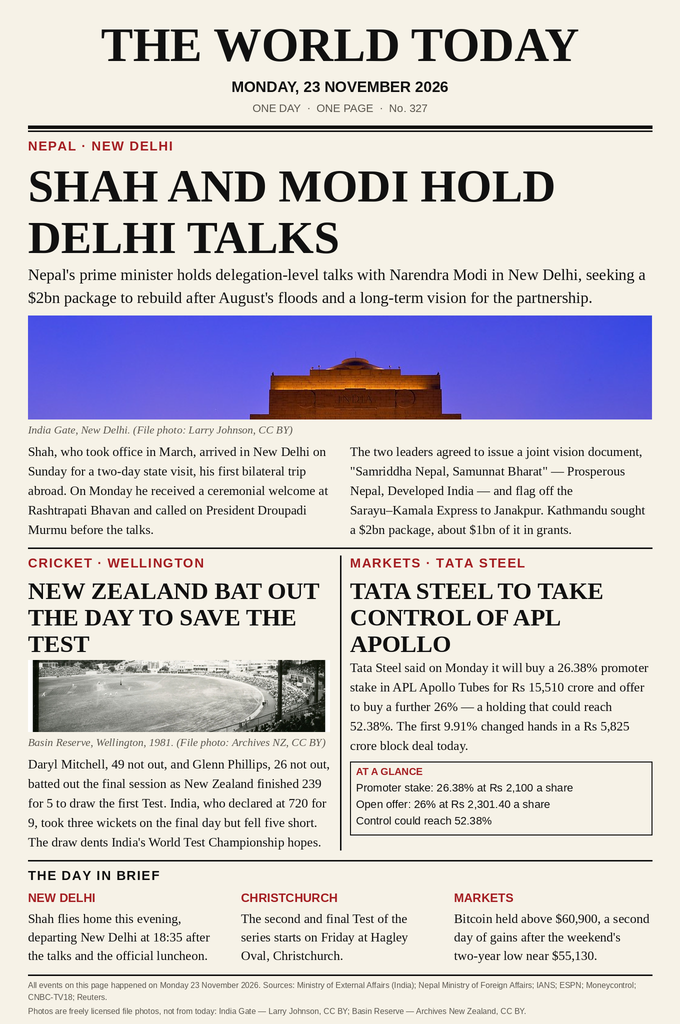
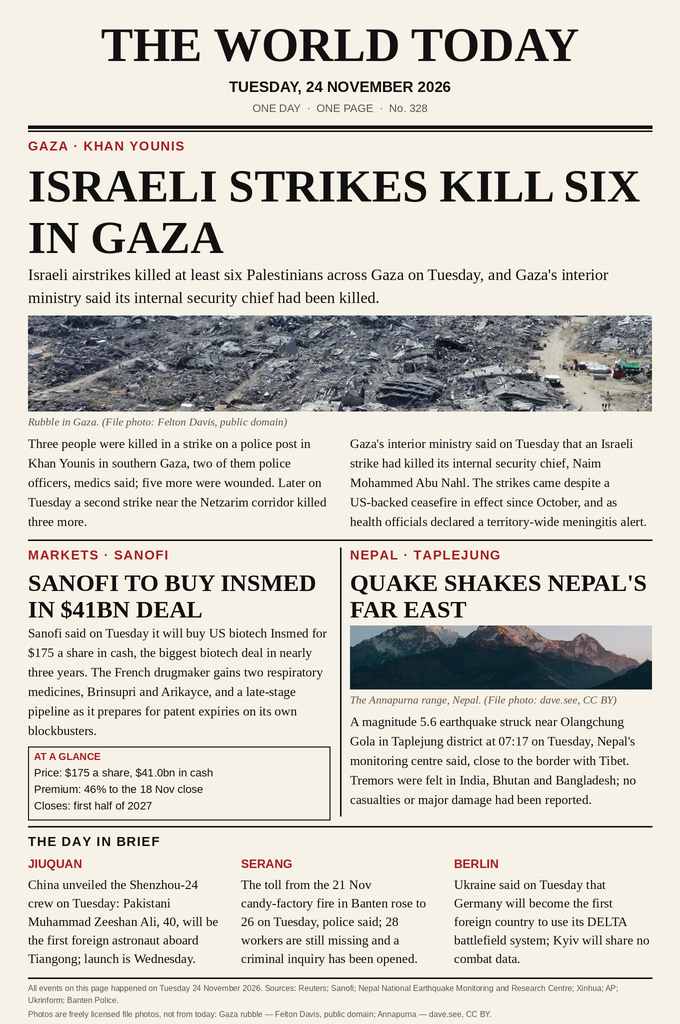
news-image-20261123 rebuild: Tuesday 24 November broadsheet (Gaza lead, Sanofi $41bn, Nepal quake)

diff --git a/tools/render.py b/tools/render.py
@@ -1,13 +1,15 @@
 #!/usr/bin/env python3
 """Render THE WORLD TODAY — a one-page broadsheet summing up the world news
-of Monday 23 November 2026 — as a 680x1024 PNG.
+of Tuesday 24 November 2026 — as a 680x1024 PNG.
 
 Drawn at 2x (1360x2048) with Pillow and downscaled with LANCZOS so the
 small type stays crisp. Layout: centred masthead and dateline, a lead story
 with deck, photograph and two-column body, two stories side by side with a
-vertical divider, a briefs strip, and a sources footer. All photographs are
-freely licensed file photos, credited in the footer; none is from 23 November
-itself. Every story on the page is an event of 23 November 2026.
+vertical divider (the markets story carries a deal-terms box, the Nepal
+story a photograph), a briefs strip, and a sources footer. All photographs
+are freely licensed file photos, credited in the footer; none is from 24
+November itself. Every story on the page is an event of 24 November 2026:
+each was checked against primary reporting the same day.
 
 Run:  python3 tools/render.py   (writes entry.png next to main.py)
 """
@@ -90,73 +92,81 @@ def tracked(draw, x, y, text, fnt, fill, tracking=0):
 
 
 # ---------------------------------------------------------------- stories
-# Final set (afternoon, 23 Nov). Every event below happened on 23 Nov 2026
-# and was checked against primary reporting the same day: the Wellington
-# Test ended in a draw, the Nepal–Modi talks were held at Hyderabad House,
-# Tata Steel announced its APL Apollo deal, and Bitcoin held above $60,900.
+# Final set (evening, 24 Nov). Every event below happened on 24 Nov 2026
+# and was checked against primary reporting the same day: the Gaza strikes
+# and the security chief's death were reported by Reuters on Tuesday 24 Nov;
+# Sanofi announced its Insmed deal on Tuesday 24 Nov (company release,
+# Reuters, WSJ); the Nepal quake struck at 07:17 local time on Tuesday
+# 24 Nov (Nepal monitoring centre); the Shenzhou-24 crew was unveiled at
+# Jiuquan on Tuesday 24 Nov; the Banten toll reached 26 on Tuesday 24 Nov;
+# Kyiv announced the DELTA access for Germany on Tuesday 24 Nov.
 LEAD = {
-    "kicker": "NEPAL · NEW DELHI",
-    "headline": "SHAH AND MODI HOLD DELHI TALKS",
-    "deck": ("Nepal's prime minister holds delegation-level talks with "
-             "Narendra Modi in New Delhi, seeking a $2bn package to rebuild "
-             "after August's floods and a long-term vision for the "
-             "partnership."),
-    "photo": os.path.join(ROOT, "assets", "india-gate.jpg"),
-    "photo_h": 104,
-    "photo_focus": 0.0,
-    "caption": "India Gate, New Delhi. (File photo: Larry Johnson, CC BY)",
-    "left": ("Shah, who took office in March, arrived in New Delhi on Sunday "
-             "for a two-day state visit, his first bilateral trip abroad. On "
-             "Monday he received a ceremonial welcome at Rashtrapati Bhavan "
-             "and called on President Droupadi Murmu before the talks."),
-    "right": ("The two leaders agreed to issue a joint vision document, "
-              "\"Samriddha Nepal, Samunnat Bharat\" — Prosperous Nepal, "
-              "Developed India — and flag off the Sarayu–Kamala Express to "
-              "Janakpur. Kathmandu sought a $2bn package, about $1bn of it "
-              "in grants."),
+    "kicker": "GAZA · KHAN YOUNIS",
+    "headline": "ISRAELI STRIKES KILL SIX IN GAZA",
+    "deck": ("Israeli airstrikes killed at least six Palestinians across "
+             "Gaza on Tuesday, and Gaza's interior ministry said its "
+             "internal security chief had been killed."),
+    "photo": os.path.join(ROOT, "assets", "gaza-rubble.jpg"),
+    "photo_h": 96,
+    "photo_focus": 0.5,
+    "caption": "Rubble in Gaza. (File photo: Felton Davis, public domain)",
+    "left": ("Three people were killed in a strike on a police post in "
+             "Khan Younis in southern Gaza, two of them police officers, "
+             "medics said; five more were wounded. Later on Tuesday a "
+             "second strike near the Netzarim corridor killed three more."),
+    "right": ("Gaza's interior ministry said on Tuesday that an Israeli "
+              "strike had killed its internal security chief, Naim "
+              "Mohammed Abu Nahl. The strikes came despite a US-backed "
+              "ceasefire in effect since October, and as health officials "
+              "declared a territory-wide meningitis alert."),
 }
 
 MIDDLE_LEFT = {
-    "kicker": "CRICKET · WELLINGTON",
-    "headline": "NEW ZEALAND BAT OUT THE DAY TO SAVE THE TEST",
-    "photo": os.path.join(ROOT, "assets", "basin-reserve.jpg"),
-    "photo_h": 72,
-    "caption": "Basin Reserve, Wellington, 1981. (File photo: Archives NZ, CC BY)",
-    "body": ("Daryl Mitchell, 49 not out, and Glenn Phillips, 26 not out, "
-             "batted out the final session as New Zealand finished 239 for 5 "
-             "to draw the first Test. India, who declared at 720 for 9, took "
-             "three wickets on the final day but fell five short. The draw "
-             "dents India's World Test Championship hopes."),
+    "kicker": "MARKETS · SANOFI",
+    "headline": "SANOFI TO BUY INSMED IN $41BN DEAL",
+    "body": ("Sanofi said on Tuesday it will buy US biotech Insmed for "
+             "$175 a share in cash, the biggest biotech deal in nearly "
+             "three years. The French drugmaker gains two respiratory "
+             "medicines, Brinsupri and Arikayce, and a late-stage pipeline "
+             "as it prepares for patent expiries on its own blockbusters."),
+    "stats": ["Price: $175 a share, $41.0bn in cash",
+              "Premium: 46% to the 18 Nov close",
+              "Closes: first half of 2027"],
 }
 
 MIDDLE_RIGHT = {
-    "kicker": "MARKETS · TATA STEEL",
-    "headline": "TATA STEEL TO TAKE CONTROL OF APL APOLLO",
-    "body": ("Tata Steel said on Monday it will buy a 26.38% promoter stake "
-             "in APL Apollo Tubes for Rs 15,510 crore and offer to buy a "
-             "further 26% — a holding that could reach 52.38%. The first "
-             "9.91% changed hands in a Rs 5,825 crore block deal today."),
-    "stats": ["Promoter stake: 26.38% at Rs 2,100 a share",
-              "Open offer: 26% at Rs 2,301.40 a share",
-              "Control could reach 52.38%"],
+    "kicker": "NEPAL · TAPLEJUNG",
+    "headline": "QUAKE SHAKES NEPAL'S FAR EAST",
+    "photo": os.path.join(ROOT, "assets", "annapurna.jpg"),
+    "photo_h": 64,
+    "photo_focus": 0.75,
+    "caption": "The Annapurna range, Nepal. (File photo: dave.see, CC BY)",
+    "body": ("A magnitude 5.6 earthquake struck near Olangchung Gola in "
+             "Taplejung district at 07:17 on Tuesday, Nepal's monitoring "
+             "centre said, close to the border with Tibet. Tremors were "
+             "felt in India, Bhutan and Bangladesh; no casualties or major "
+             "damage had been reported."),
 }
 
 BRIEFS = [
-    ("NEW DELHI", "Shah flies home this evening, departing New Delhi at 18:35 "
-                  "after the talks and the official luncheon."),
-    ("CHRISTCHURCH", "The second and final Test of the series starts on "
-                      "Friday at Hagley Oval, Christchurch."),
-    ("MARKETS", "Bitcoin held above $60,900, a second day of gains after "
-                "the weekend's two-year low near $55,130."),
+    ("JIUQUAN", "China unveiled the Shenzhou-24 crew on Tuesday: Pakistani "
+                "Muhammad Zeeshan Ali, 40, will be the first foreign "
+                "astronaut aboard Tiangong; launch is Wednesday."),
+    ("SERANG", "The toll from the 21 Nov candy-factory fire in Banten rose "
+               "to 26 on Tuesday, police said; 28 workers are still "
+               "missing and a criminal inquiry has been opened."),
+    ("BERLIN", "Ukraine said on Tuesday that Germany will become the first "
+               "foreign country to use its DELTA battlefield system; Kyiv "
+               "will share no combat data."),
 ]
 
-FOOT_SOURCES = ("All events on this page happened on Monday 23 November 2026. "
-                "Sources: Ministry of External Affairs (India); Nepal Ministry "
-                "of Foreign Affairs; IANS; ESPN; Moneycontrol; CNBC-TV18; "
-                "Reuters.")
-FOOT_PHOTOS = ("Photos are freely licensed file photos, not from today: India "
-               "Gate — Larry Johnson, CC BY; Basin Reserve — Archives New "
-               "Zealand, CC BY.")
+FOOT_SOURCES = ("All events on this page happened on Tuesday 24 November "
+                "2026. Sources: Reuters; Sanofi; Nepal National Earthquake "
+                "Monitoring and Research Centre; Xinhua; AP; Ukrinform; "
+                "Banten Police.")
+FOOT_PHOTOS = ("Photos are freely licensed file photos, not from today: "
+               "Gaza rubble — Felton Davis, public domain; Annapurna — "
+               "dave.see, CC BY.")
 
 
 def main():
@@ -172,12 +182,12 @@ def main():
     y += int(48 * SCALE * 1.25)
 
     f_date = font(SANS_B, 15)
-    t = "MONDAY, 23 NOVEMBER 2026"
+    t = "TUESDAY, 24 NOVEMBER 2026"
     d.text(((W - d.textlength(t, font=f_date)) / 2, y), t, font=f_date, fill=INK)
     y += int(15 * SCALE * 1.6)
 
     f_sub = font(SANS, 11)
-    t = "ONE DAY  ·  ONE PAGE  ·  No. 327"
+    t = "ONE DAY  ·  ONE PAGE  ·  No. 328"
     d.text(((W - d.textlength(t, font=f_sub)) / 2, y), t, font=f_sub, fill=GREY)
     y += int(11 * SCALE * 1.6) + 6 * SCALE
 
@@ -238,7 +248,8 @@ def main():
         if "photo" in s:
             im = Image.open(s["photo"]).convert("RGB")
             ph2 = s["photo_h"] * SCALE
-            img.paste(crop_cover(im, col_w, ph2), (cx, yy))
+            img.paste(crop_cover(im, col_w, ph2,
+                                 focus=s.get("photo_focus", 0.5)), (cx, yy))
             yy += ph2 + 4 * SCALE
             d.text((cx, yy), s["caption"], font=f_cap, fill=GREY)
             yy += int(11 * SCALE * 1.7) + 2 * SCALE
@@ -300,7 +311,7 @@ def main():
                    f_foot, fill=GREY, leading=int(8 * SCALE * 1.55))
 
     out = img.resize((680, 1024), Image.LANCZOS)
-    out.save(os.path.join(ROOT, "entry.png"), "PNG")
+    out.save(os.path.join(ROOT, "entry.png"), "PNG", optimize=True)
     print("wrote entry.png", out.size,
           os.path.getsize(os.path.join(ROOT, "entry.png")), "bytes,",
           "content ends at y =", y // SCALE, "(logical)")
